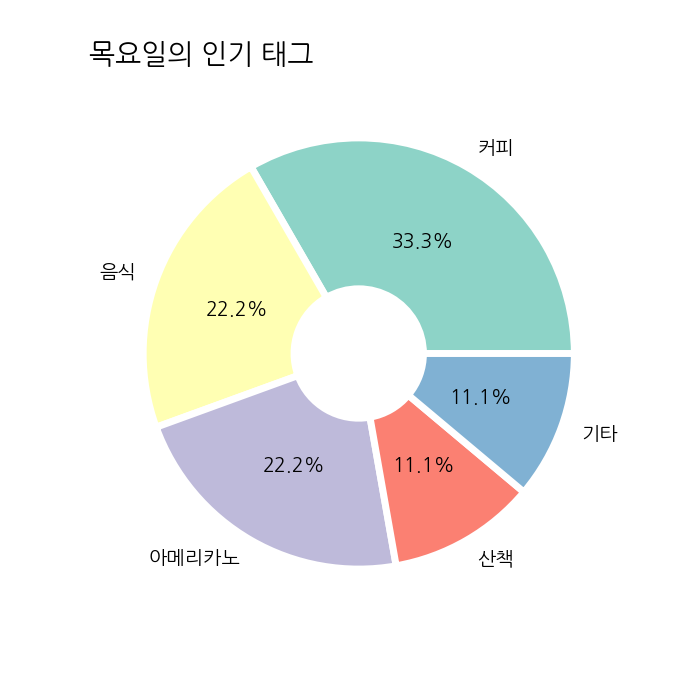
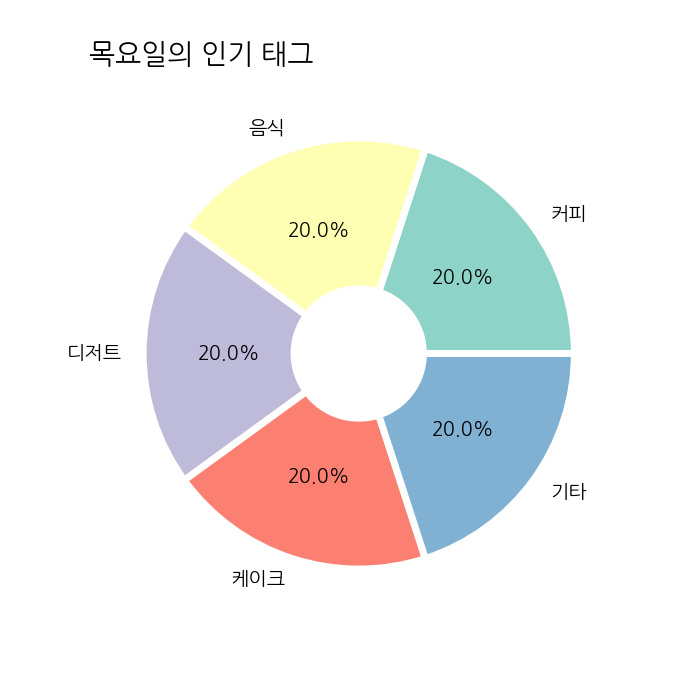
시간분석 페이지 날짜 참조 에러 수정

diff --git a/templates/analysisTime.html b/templates/analysisTime.html
@@ -53,9 +53,9 @@
 
 
         <!--시간대 그래프 나타내기-->
+        <caption><h3>시간대별 분석</h3></caption>
         <div id="time_div">
             <table id="time_tb">
-                <caption><h3>시간대별 분석</h3></caption>
                 <tr ><td style="text-align:center; padding:3%;">
                     <input type="button" id="dawn_btn" class="time_btn" value="새벽">
                     <input type="button" id="morning_btn" class="time_btn" value="아침">
@@ -88,12 +88,11 @@
                 </td></tr>
             </table>
         </div>
-
-
+        <br><br>
+        <caption><h3>요일별 분석</h3></caption>
         <!--요일별 태그 그래프로 나타내기-->
         <div id="week_div">
             <table id="week_tb">
-                <caption><h3>요일별 분석</h3></caption>
                 <tr ><td style="text-align:center; padding:3%;">
                     <input type="button" id="week_top_btn" class="week_btn" value="요일별 인기">
                     <input type="button" id="mon_btn" class="week_btn" value="월요일">

diff --git a/analysis/views.py b/analysis/views.py
@@ -269,13 +269,21 @@ def weekday_tag(tag_table): # 일~토 인기 태그 top1개씩 한 그래프에
         # 일~토 top1 태그 추출해 그래프 생성
         commontags_lst = []
         for i in range(7):
-            commontags_lst.append(collections.Counter(weekdaytag_df[weekdaytag_df['weekday'] == i]['tags']).most_common(5))
-
+            num = len(collections.Counter(weekdaytag_df[weekdaytag_df['weekday'] == i]['tags']))
+            if num > 5:
+                commontags_lst.append(collections.Counter(weekdaytag_df[weekdaytag_df['weekday'] == i]['tags']).most_common(5))
+            elif num > 1: 
+                commontags_lst.append(collections.Counter(weekdaytag_df[weekdaytag_df['weekday'] == i]['tags']).most_common(num))
+                print(commontags_lst.append(collections.Counter(weekdaytag_df[weekdaytag_df['weekday'] == i]['tags']).most_common(num)))
+            elif num == 0:
+                commontags_lst.append([tuple(['없음',1])])
+        
         mostcommon_byweekday = []
         for j in range(7):
             mostcommon_byweekday.append(commontags_lst[j][0])
+            print(commontags_lst[j][0])
         mostcommon_byweekday = pd.DataFrame(mostcommon_byweekday)
-
+        print( mostcommon_byweekday)
         plt.rc('font', family='nanumgothic')
         plt.figure(figsize=(7, 5))
         plt.bar(mostcommon_byweekday.index, mostcommon_byweekday[1], color=sns.color_palette('Set2'))
@@ -320,47 +328,6 @@ def weekday_tag(tag_table): # 일~토 인기 태그 top1개씩 한 그래프에
 def analysisTime(request):
     try: #사용자 요청 받은 날짜 데이터로 분석     
         date=request.GET['date'] #2002-07 형태
-      
-        user = get_user_model()
-        user = request.user.id
-        photo_id_list=list(Photo.objects.filter(author_id=user).values_list('id', flat=True))
-        photo_id=','.join(map(str, photo_id_list))
-        # MySQL Connection 연결하고 테이블에서 데이터 가져옴
-        tag_table = get_table(user,photo_id,'phototag')
-        
-        if tag_table.empty == False:
-            #태그테이블에 데이터 존재하면 사용자 요청 받은 날짜인지 비교
-            year, month = date.split('-')
-            year = int(year); month = int(month)
-            tag_table['create_date']=pd.to_datetime(tag_table['create_date'])
-            tag_table['year'] = tag_table['create_date'].dt.year
-            tag_table['month'] = tag_table['create_date'].dt.month
-            tag_table=tag_table[(tag_table['year'] == year)&(tag_table['month'] == month)] #연도,월 일치하는 데이터만 가져옴
-
-            if tag_table.empty == False:
-                weektag = weekday_tag(tag_table)
-
-                timetag = time_tag(tag_table)
-                timezonetag = timezone_tag(timetag)
-                
-                content={
-                'timezonetag':timezonetag,
-                'weektag':weektag
-                }
-            else:
-                content = {
-                    'timezonetag' : 0,
-                    'weektag': 0
-                }
-
-        else: #태그테이블 비어있을 때 오류 나지 않게 처리
-            weektag=0
-            timezonetag=0
-
-            content={
-                'timezonetag':timezonetag,
-                'weektag':weektag
-            }
     except: # default: 이번달 데이터 분석        
         # MySQL Connection 연결하고 테이블에서 데이터 가져옴
         user = get_user_model()
@@ -400,6 +367,48 @@ def analysisTime(request):
             'timezonetag':timezonetag,
             'weektag':weektag
             }
+            return render(request,'analysisTime.html', content)
+
+    user = get_user_model()
+    user = request.user.id
+    photo_id_list=list(Photo.objects.filter(author_id=user).values_list('id', flat=True))
+    photo_id=','.join(map(str, photo_id_list))
+    # MySQL Connection 연결하고 테이블에서 데이터 가져옴
+    tag_table = get_table(user,photo_id,'phototag')
+    
+    if tag_table.empty == False:
+        #태그테이블에 데이터 존재하면 사용자 요청 받은 날짜인지 비교
+        year, month = date.split('-')
+        year = int(year); month = int(month)
+        tag_table['create_date']=pd.to_datetime(tag_table['create_date'])
+        tag_table['year'] = tag_table['create_date'].dt.year
+        tag_table['month'] = tag_table['create_date'].dt.month
+        tag_table=tag_table[(tag_table['year'] == year)&(tag_table['month'] == month)] #연도,월 일치하는 데이터만 가져옴
+
+        if tag_table.empty == False:
+            weektag = weekday_tag(tag_table)
+
+            timetag = time_tag(tag_table)
+            timezonetag = timezone_tag(timetag)
+            
+            content={
+            'timezonetag':timezonetag,
+            'weektag':weektag
+            }
+        else:
+            content = {
+                'timezonetag' : 0,
+                'weektag': 0
+            }
+
+    else: #태그테이블 비어있을 때 오류 나지 않게 처리
+        weektag=0
+        timezonetag=0
+
+        content={
+            'timezonetag':timezonetag,
+            'weektag':weektag
+        }
     return render(request,'analysisTime.html', content)
 
 #DB에서 정보를 받아옴
